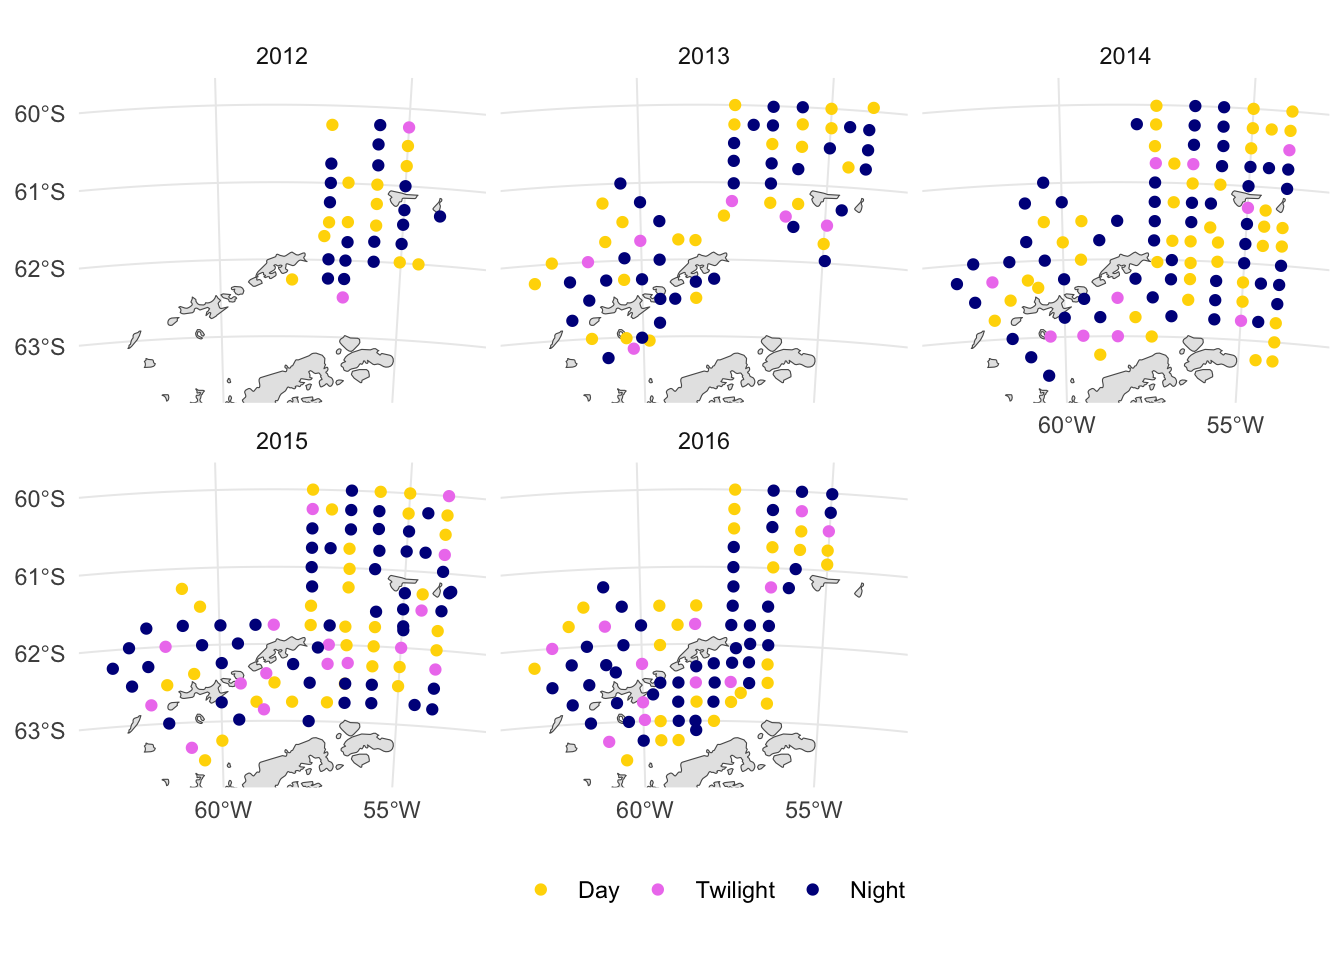
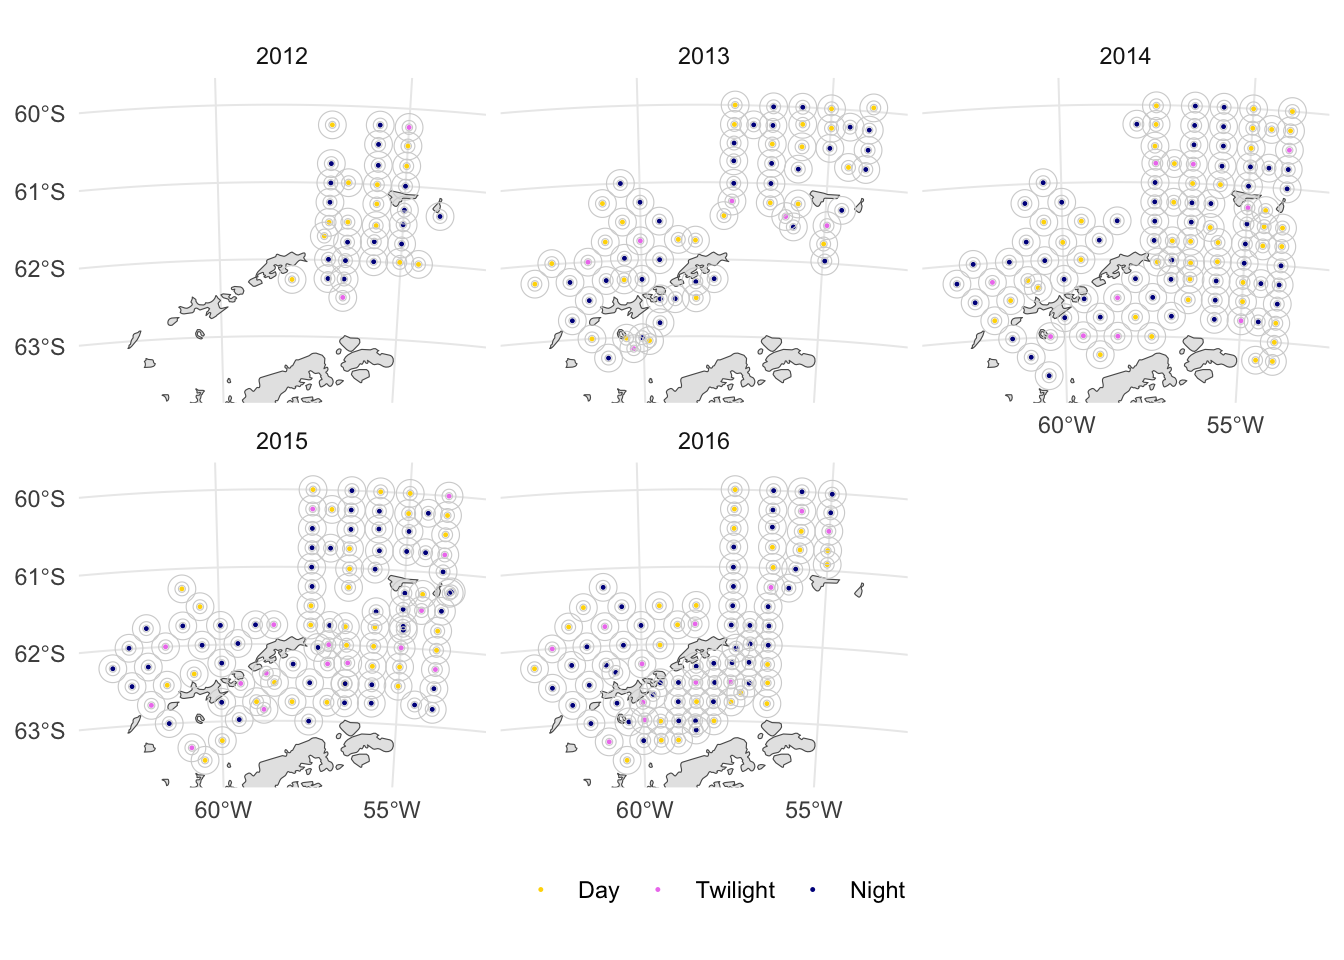
Add buffers to station map

diff --git a/docs/02_stations.html b/docs/02_stations.html
@@ -125,6 +125,7 @@ code span.wa { color: #60a0b0; font-weight: bold; font-style: italic; } /* Warni
 
 <section id="station-maps" class="level2">
 <h2 class="anchored" data-anchor-id="station-maps">Station maps</h2>
+<p>Sampling stations across survey years, color-coded by time-of-day. Grey circles indicate 10k, 15k, and 20k buffers.</p>
 <div class="cell">
 <details>
 <summary>Code</summary>
@@ -132,19 +133,26 @@ code span.wa { color: #60a0b0; font-weight: bold; font-style: italic; } /* Warni
 <span id="cb1-2"><a href="#cb1-2" aria-hidden="true" tabindex="-1"></a>                        <span class="at">coords =</span> <span class="fu">c</span>(<span class="st">"dec.longitude"</span>, <span class="st">"dec.latitude"</span>)) <span class="sc">%&gt;%</span> </span>
 <span id="cb1-3"><a href="#cb1-3" aria-hidden="true" tabindex="-1"></a>  sf<span class="sc">::</span><span class="fu">st_transform</span>(<span class="fu">ant_proj</span>())</span>
 <span id="cb1-4"><a href="#cb1-4" aria-hidden="true" tabindex="-1"></a></span>
-<span id="cb1-5"><a href="#cb1-5" aria-hidden="true" tabindex="-1"></a>map_lim <span class="ot">&lt;-</span> sf<span class="sc">::</span><span class="fu">st_bbox</span>(zoop_sf) <span class="sc">%&gt;%</span> </span>
-<span id="cb1-6"><a href="#cb1-6" aria-hidden="true" tabindex="-1"></a>  <span class="fu">project_bbox</span>() <span class="sc">%&gt;%</span> </span>
-<span id="cb1-7"><a href="#cb1-7" aria-hidden="true" tabindex="-1"></a>  <span class="fu">expand_bbox</span>(<span class="at">factor =</span> <span class="fl">1.2</span>)</span>
+<span id="cb1-5"><a href="#cb1-5" aria-hidden="true" tabindex="-1"></a>zoop_buffers_10k <span class="ot">&lt;-</span> sf<span class="sc">::</span><span class="fu">st_buffer</span>(zoop_sf, <span class="fl">5e3</span>)</span>
+<span id="cb1-6"><a href="#cb1-6" aria-hidden="true" tabindex="-1"></a>zoop_buffers_15k <span class="ot">&lt;-</span> sf<span class="sc">::</span><span class="fu">st_buffer</span>(zoop_sf, <span class="fl">10e3</span>)</span>
+<span id="cb1-7"><a href="#cb1-7" aria-hidden="true" tabindex="-1"></a>zoop_buffers_20k <span class="ot">&lt;-</span> sf<span class="sc">::</span><span class="fu">st_buffer</span>(zoop_sf, <span class="fl">20e3</span>)</span>
 <span id="cb1-8"><a href="#cb1-8" aria-hidden="true" tabindex="-1"></a></span>
-<span id="cb1-9"><a href="#cb1-9" aria-hidden="true" tabindex="-1"></a><span class="fu">ant_basemap</span>(map_lim) <span class="sc">+</span></span>
-<span id="cb1-10"><a href="#cb1-10" aria-hidden="true" tabindex="-1"></a>  <span class="fu">geom_sf</span>(<span class="fu">aes</span>(<span class="at">color =</span> time.of.day), zoop_sf) <span class="sc">+</span></span>
-<span id="cb1-11"><a href="#cb1-11" aria-hidden="true" tabindex="-1"></a>  <span class="fu">facet_wrap</span>(<span class="sc">~</span> Year) <span class="sc">+</span></span>
-<span id="cb1-12"><a href="#cb1-12" aria-hidden="true" tabindex="-1"></a>  <span class="fu">scale_x_continuous</span>(<span class="at">breaks =</span> <span class="fu">c</span>(<span class="sc">-</span><span class="dv">60</span>, <span class="sc">-</span><span class="dv">55</span>)) <span class="sc">+</span></span>
-<span id="cb1-13"><a href="#cb1-13" aria-hidden="true" tabindex="-1"></a>  <span class="fu">scale_y_continuous</span>(<span class="at">breaks =</span> <span class="fu">c</span>(<span class="sc">-</span><span class="dv">63</span>, <span class="sc">-</span><span class="dv">62</span>, <span class="sc">-</span><span class="dv">61</span>, <span class="sc">-</span><span class="dv">60</span>)) <span class="sc">+</span></span>
-<span id="cb1-14"><a href="#cb1-14" aria-hidden="true" tabindex="-1"></a>  <span class="fu">scale_color_manual</span>(<span class="at">values =</span> <span class="fu">tod_pal</span>()) <span class="sc">+</span></span>
-<span id="cb1-15"><a href="#cb1-15" aria-hidden="true" tabindex="-1"></a>  <span class="fu">coord_ant</span>(map_lim) <span class="sc">+</span></span>
-<span id="cb1-16"><a href="#cb1-16" aria-hidden="true" tabindex="-1"></a>  <span class="fu">theme</span>(<span class="at">legend.position =</span> <span class="st">"bottom"</span>,</span>
-<span id="cb1-17"><a href="#cb1-17" aria-hidden="true" tabindex="-1"></a>        <span class="at">legend.title =</span> <span class="fu">element_blank</span>())</span></code><button title="Copy to Clipboard" class="code-copy-button"><i class="bi"></i></button></pre></div>
+<span id="cb1-9"><a href="#cb1-9" aria-hidden="true" tabindex="-1"></a>map_lim <span class="ot">&lt;-</span> sf<span class="sc">::</span><span class="fu">st_bbox</span>(zoop_sf) <span class="sc">%&gt;%</span> </span>
+<span id="cb1-10"><a href="#cb1-10" aria-hidden="true" tabindex="-1"></a>  <span class="fu">project_bbox</span>() <span class="sc">%&gt;%</span> </span>
+<span id="cb1-11"><a href="#cb1-11" aria-hidden="true" tabindex="-1"></a>  <span class="fu">expand_bbox</span>(<span class="at">factor =</span> <span class="fl">1.2</span>)</span>
+<span id="cb1-12"><a href="#cb1-12" aria-hidden="true" tabindex="-1"></a></span>
+<span id="cb1-13"><a href="#cb1-13" aria-hidden="true" tabindex="-1"></a><span class="fu">ant_basemap</span>(map_lim) <span class="sc">+</span></span>
+<span id="cb1-14"><a href="#cb1-14" aria-hidden="true" tabindex="-1"></a>  <span class="fu">geom_sf</span>(<span class="fu">aes</span>(<span class="at">color =</span> time.of.day), zoop_sf, <span class="at">size =</span> <span class="fl">0.2</span>) <span class="sc">+</span></span>
+<span id="cb1-15"><a href="#cb1-15" aria-hidden="true" tabindex="-1"></a>  <span class="fu">geom_sf</span>(<span class="at">data =</span> zoop_buffers_10k, <span class="at">color =</span> <span class="st">"lightgrey"</span>, <span class="at">fill =</span> <span class="cn">NA</span>) <span class="sc">+</span></span>
+<span id="cb1-16"><a href="#cb1-16" aria-hidden="true" tabindex="-1"></a>  <span class="fu">geom_sf</span>(<span class="at">data =</span> zoop_buffers_15k, <span class="at">color =</span> <span class="st">"lightgrey"</span>, <span class="at">fill =</span> <span class="cn">NA</span>) <span class="sc">+</span></span>
+<span id="cb1-17"><a href="#cb1-17" aria-hidden="true" tabindex="-1"></a>  <span class="fu">geom_sf</span>(<span class="at">data =</span> zoop_buffers_20k, <span class="at">color =</span> <span class="st">"lightgrey"</span>, <span class="at">fill =</span> <span class="cn">NA</span>) <span class="sc">+</span></span>
+<span id="cb1-18"><a href="#cb1-18" aria-hidden="true" tabindex="-1"></a>  <span class="fu">facet_wrap</span>(<span class="sc">~</span> Year) <span class="sc">+</span></span>
+<span id="cb1-19"><a href="#cb1-19" aria-hidden="true" tabindex="-1"></a>  <span class="fu">scale_x_continuous</span>(<span class="at">breaks =</span> <span class="fu">c</span>(<span class="sc">-</span><span class="dv">60</span>, <span class="sc">-</span><span class="dv">55</span>)) <span class="sc">+</span></span>
+<span id="cb1-20"><a href="#cb1-20" aria-hidden="true" tabindex="-1"></a>  <span class="fu">scale_y_continuous</span>(<span class="at">breaks =</span> <span class="fu">c</span>(<span class="sc">-</span><span class="dv">63</span>, <span class="sc">-</span><span class="dv">62</span>, <span class="sc">-</span><span class="dv">61</span>, <span class="sc">-</span><span class="dv">60</span>)) <span class="sc">+</span></span>
+<span id="cb1-21"><a href="#cb1-21" aria-hidden="true" tabindex="-1"></a>  <span class="fu">scale_color_manual</span>(<span class="at">values =</span> <span class="fu">tod_pal</span>()) <span class="sc">+</span></span>
+<span id="cb1-22"><a href="#cb1-22" aria-hidden="true" tabindex="-1"></a>  <span class="fu">coord_ant</span>(map_lim) <span class="sc">+</span></span>
+<span id="cb1-23"><a href="#cb1-23" aria-hidden="true" tabindex="-1"></a>  <span class="fu">theme</span>(<span class="at">legend.position =</span> <span class="st">"bottom"</span>,</span>
+<span id="cb1-24"><a href="#cb1-24" aria-hidden="true" tabindex="-1"></a>        <span class="at">legend.title =</span> <span class="fu">element_blank</span>())</span></code><button title="Copy to Clipboard" class="code-copy-button"><i class="bi"></i></button></pre></div>
 </details>
 <div class="cell-output-display">
 <p><img src="02_stations_files/figure-html/station_maps-1.png" class="img-fluid" width="672"></p>
